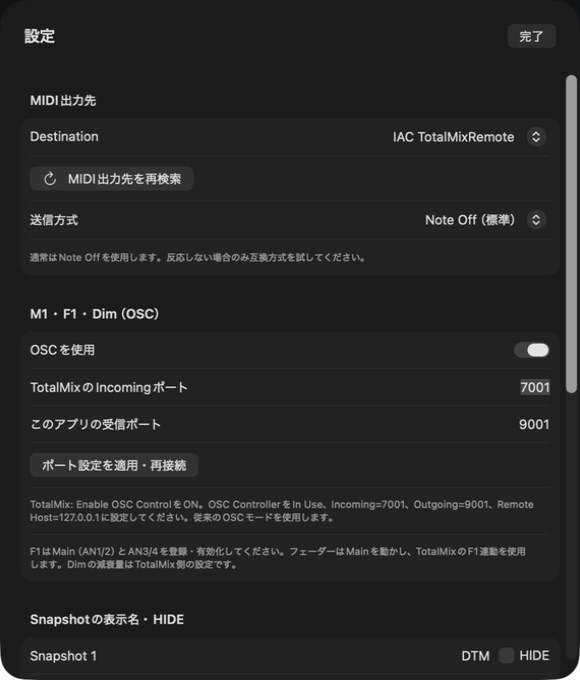
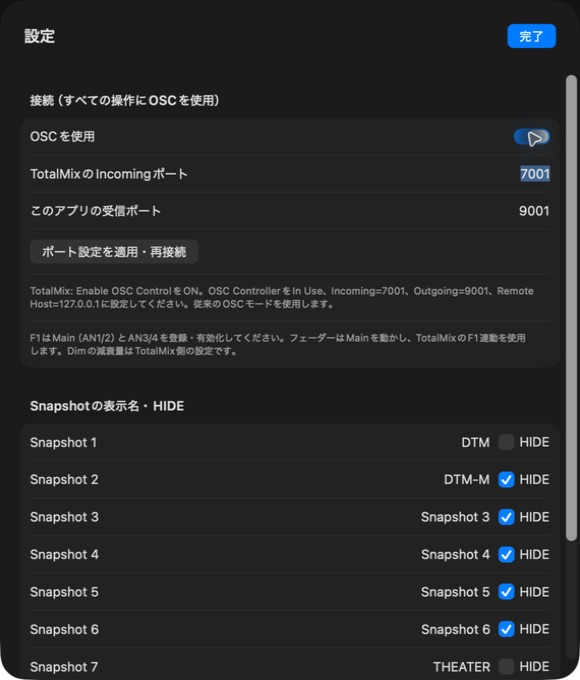
Unify TotalMix controls on OSC and remove MIDI transport

diff --git a/Tests/TotalMixSnapshotTouchTests/SnapshotTests.swift b/Tests/TotalMixSnapshotTouchTests/SnapshotTests.swift
@@ -1,92 +1,39 @@
 import XCTest
-import CoreMIDI
 @testable import TotalMixSnapshotTouch
 
 final class SnapshotTests: XCTestCase {
-    func testAllSnapshotBytesAndInvalidNumbers() throws {
-        for number in 1...8 {
-            XCTAssertEqual(try SnapshotCommand.bytes(for: number), [0x80, UInt8(53 + number), 0])
-            XCTAssertEqual(try SnapshotCommand.bytes(for: number, encoding: .noteOnZero), [0x90, UInt8(53 + number), 0])
-        }
-        XCTAssertThrowsError(try SnapshotCommand.bytes(for: 0))
-        XCTAssertThrowsError(try SnapshotCommand.bytes(for: 9))
-    }
-    func testDestinationSelectionPriorityAndMissingPort() {
-        let named = MIDIDestinationInfo(endpoint: 1, uniqueID: 10, displayName: "IAC TotalMixRemote")
-        let chosen = MIDIDestinationInfo(endpoint: 2, uniqueID: 20, displayName: "Other")
-        XCTAssertEqual(DestinationSelection.preferred(in: [named, chosen], savedID: 20), chosen)
-        XCTAssertEqual(DestinationSelection.preferred(in: [named, chosen], savedID: 99), named)
-        XCTAssertEqual(DestinationSelection.preferred(in: [named], savedID: nil), named)
-        XCTAssertNil(DestinationSelection.preferred(in: [chosen], savedID: nil))
-        XCTAssertNil(DestinationSelection.preferred(in: [], savedID: 20))
+    func testSnapshotAddresses() {
+        XCTAssertEqual((1...8).compactMap { SnapshotCommand.address(for: $0) }, [
+            "/3/snapshots/8/1", "/3/snapshots/7/1", "/3/snapshots/6/1", "/3/snapshots/5/1",
+            "/3/snapshots/4/1", "/3/snapshots/3/1", "/3/snapshots/2/1", "/3/snapshots/1/1"
+        ])
+        XCTAssertNil(SnapshotCommand.address(for: 0))
+        XCTAssertNil(SnapshotCommand.address(for: 9))
     }
     @MainActor
-    func testSettingsSurviveReloadAndReset() async throws {
+    func testExistingSettingsSurviveOSCOnlyMigration() async throws {
         let suite = "TotalMixTests.\(UUID().uuidString)"
         let defaults = try XCTUnwrap(UserDefaults(suiteName: suite))
         defer { defaults.removePersistentDomain(forName: suite) }
+        // Legacy keys must not interfere with names, visibility, or the OSC connection.
+        defaults.set(-123, forKey: "destinationUniqueID")
+        defaults.set("noteOnZero", forKey: "midiEncoding")
+        defaults.set([2, 3, 4, 5, 6, 8], forKey: "hiddenSnapshots")
+        defaults.set(7101, forKey: "oscSendPort")
+        defaults.set(9101, forKey: "oscReceivePort")
         let first = AppSettings(defaults: defaults)
         for number in 1...8 { first.setName("名前 \(number)", for: number) }
-        first.destinationID = -123
-        first.encoding = .noteOnZero
         let next = AppSettings(defaults: defaults)
         for number in 1...8 { XCTAssertEqual(next.name(for: number), "名前 \(number)") }
-        XCTAssertEqual(next.destinationID, -123)
-        XCTAssertEqual(next.encoding, .noteOnZero)
+        XCTAssertEqual(next.visibleSnapshotNumbers, [1, 7])
+        XCTAssertEqual(next.oscSendPort, 7101)
+        XCTAssertEqual(next.oscReceivePort, 9101)
+        next.setHidden(false, for: 2)
+        XCTAssertEqual(AppSettings(defaults: defaults).visibleSnapshotNumbers, [1, 2, 7])
         next.setName("  ", for: 1)
         XCTAssertEqual(next.name(for: 1), "Snapshot 1")
         next.resetNames()
         XCTAssertEqual(AppSettings(defaults: defaults).snapshotNames, (1...8).map { "Snapshot \($0)" })
+        XCTAssertEqual(AppSettings(defaults: defaults).visibleSnapshotNumbers, [1, 2, 7])
     }
-    @MainActor
-    func testCoreMIDISendsToIsolatedEndpointAndHandlesRemoval() async throws {
-        let suite = "TotalMixTests.\(UUID().uuidString)"
-        let defaults = try XCTUnwrap(UserDefaults(suiteName: suite))
-        defer { defaults.removePersistentDomain(forName: suite) }
-        var client: MIDIClientRef = 0
-        var endpoint: MIDIEndpointRef = 0
-        XCTAssertEqual(MIDIClientCreateWithBlock("Snapshot Tests" as CFString, &client, nil), noErr)
-        defer { MIDIClientDispose(client) }
-        let received = expectation(description: "Eight Note Off messages and compatibility message")
-        received.expectedFulfillmentCount = 9
-        let collector = PacketCollector()
-        XCTAssertEqual(MIDIDestinationCreateWithBlock(client, "Isolated Snapshot Test" as CFString, &endpoint) { list, _ in
-            var pointer = UnsafeRawPointer(list).advanced(by: MemoryLayout<MIDIPacketList>.offset(of: \.packet)!).assumingMemoryBound(to: MIDIPacket.self)
-            for index in 0..<list.pointee.numPackets {
-                let packet = pointer.pointee
-                let bytes = withUnsafeBytes(of: packet.data) { Array($0.prefix(Int(packet.length))) }
-                // CoreMIDI may coalesce several three-byte messages into one packet.
-                for start in stride(from: 0, to: bytes.count, by: 3) {
-                    collector.append(Array(bytes[start..<min(start + 3, bytes.count)]))
-                    received.fulfill()
-                }
-                if index + 1 < list.pointee.numPackets { pointer = UnsafePointer(MIDIPacketNext(pointer)) }
-            }
-        }, noErr)
-        var uniqueID: Int32 = 0
-        XCTAssertEqual(MIDIObjectGetIntegerProperty(endpoint, kMIDIPropertyUniqueID, &uniqueID), noErr)
-        let settings = AppSettings(defaults: defaults)
-        settings.destinationID = uniqueID
-        let manager = MIDIManager(settings: settings)
-        XCTAssertEqual(manager.selectedDestination?.endpoint, endpoint)
-        for number in 1...8 { try manager.sendSnapshot(number) }
-        settings.encoding = .noteOnZero
-        try manager.sendSnapshot(1)
-        await fulfillment(of: [received], timeout: 3)
-        XCTAssertEqual(collector.all(), (1...8).map { [UInt8(0x80), UInt8(53 + $0), UInt8(0)] } + [[0x90, 54, 0]])
-        XCTAssertEqual(manager.lastSentSnapshot, 1)
-        XCTAssertEqual(MIDIEndpointDispose(endpoint), noErr)
-        // No refresh in between: exercise stale handle validation, never send to a real IAC endpoint.
-        XCTAssertFalse(manager.recall(2))
-        XCTAssertFalse(manager.isConnected)
-        XCTAssertNil(manager.lastSentSnapshot)
-        XCTAssertNotNil(manager.errorMessage)
-    }
-}
-
-private final class PacketCollector: @unchecked Sendable {
-    private let lock = NSLock()
-    private var packets: [[UInt8]] = []
-    func append(_ bytes: [UInt8]) { lock.lock(); defer { lock.unlock() }; packets.append(bytes) }
-    func all() -> [[UInt8]] { lock.lock(); defer { lock.unlock() }; return packets }
 }

diff --git a/Sources/TotalMixSnapshotTouch/Views/MainView.swift b/Sources/TotalMixSnapshotTouch/Views/MainView.swift
@@ -2,7 +2,6 @@ import SwiftUI
 
 struct MainView: View {
     @EnvironmentObject private var settings: AppSettings
-    @EnvironmentObject private var midi: MIDIManager
     @EnvironmentObject private var osc: OSCManager
     @State private var showsSettings = false
     var body: some View {
@@ -38,9 +37,9 @@ struct MainView: View {
                         ScrollView {
                             LazyVGrid(columns: Array(repeating: GridItem(.flexible(), spacing: 14), count: columns), spacing: 14) {
                                 ForEach(visibleNumbers, id: \.self) { number in
-                                    SnapshotButton(number: number, name: settings.name(for: number), lastSent: midi.lastSentSnapshot == number, enabled: midi.isConnected) {
+                                    SnapshotButton(number: number, name: settings.name(for: number), lastSent: osc.lastSentSnapshot == number, enabled: osc.connected) {
                                         // Also guard actions retained during a view update.
-                                        if !settings.hiddenSnapshots.contains(number) { midi.recall(number) }
+                                        if !settings.hiddenSnapshots.contains(number) { osc.recallSnapshot(number) }
                                     }
                                     .frame(height: cellHeight)
                                     .keyboardShortcut(KeyEquivalent(Character(String(number))), modifiers: [])
@@ -53,15 +52,15 @@ struct MainView: View {
                 }
                 MonitorControlsView().disabled(showsSettings)
                 HStack(alignment: .top, spacing: 10) {
-                    Circle().fill(midi.isConnected ? Color.mint : Color.orange).frame(width: 8, height: 8).padding(.top, 4)
+                    Circle().fill(osc.connected ? Color.mint : Color.orange).frame(width: 8, height: 8).padding(.top, 4)
                     VStack(alignment: .leading, spacing: 3) {
-                        Text(midi.errorMessage ?? "MIDI: \(midi.selectedDestination?.displayName ?? "未接続")")
-                            .foregroundStyle(midi.errorMessage == nil ? Color.secondary : Color.orange)
+                        Text(osc.errorMessage ?? (osc.connected ? "OSC: 127.0.0.1 · 接続済み" : "OSC未接続 — 設定を確認してください"))
+                            .foregroundStyle(osc.connected && osc.errorMessage == nil ? Color.secondary : Color.orange)
                         Text("強調表示は最後に送信したSnapshotです。TotalMixの現在状態とは同期しません。")
                             .foregroundStyle(.secondary)
                     }.font(.system(size: 11))
                     Spacer(minLength: 0)
-                    if let date = midi.lastSentDate {
+                    if let date = osc.lastSentDate {
                         Text(date, style: .time).font(.system(size: 11, design: .monospaced)).foregroundStyle(.secondary)
                     }
                 }
@@ -72,7 +71,7 @@ struct MainView: View {
         .background(Color(red: 0.045, green: 0.065, blue: 0.085))
         .preferredColorScheme(.dark)
         .sheet(isPresented: $showsSettings) {
-            SettingsView().environmentObject(settings).environmentObject(midi).environmentObject(osc)
+            SettingsView().environmentObject(settings).environmentObject(osc)
         }
     }
 }

diff --git a/Sources/TotalMixSnapshotTouch/Views/SettingsView.swift b/Sources/TotalMixSnapshotTouch/Views/SettingsView.swift
@@ -2,7 +2,6 @@ import SwiftUI
 
 struct SettingsView: View {
     @EnvironmentObject private var settings: AppSettings
-    @EnvironmentObject private var midi: MIDIManager
     @EnvironmentObject private var osc: OSCManager
     @Environment(\.dismiss) private var dismiss
     var body: some View {
@@ -13,26 +12,7 @@ struct SettingsView: View {
                 Button("完了") { dismiss() }.keyboardShortcut(.defaultAction)
             }.padding(24)
             Form {
-                Section("MIDI出力先") {
-                    Picker("Destination", selection: Binding<UInt32>(
-                        get: { midi.selectedDestination?.endpoint ?? 0 },
-                        set: { endpoint in
-                            if let destination = midi.destinations.first(where: { $0.endpoint == endpoint }) { midi.selectDestination(destination) }
-                        }
-                    )) {
-                        Text("未接続 / 出力先を選択").tag(UInt32(0))
-                        ForEach(midi.destinations) { destination in
-                            Text(destination.displayName).tag(destination.endpoint)
-                        }
-                    }
-                    Button("MIDI出力先を再検索", systemImage: "arrow.clockwise") { midi.refreshDestinations() }
-                    Picker("送信方式", selection: $settings.encoding) {
-                        ForEach(SnapshotCommand.Encoding.allCases) { encoding in Text(encoding.title).tag(encoding) }
-                    }
-                    Text("通常はNote Offを使用します。反応しない場合のみ互換方式を試してください。")
-                        .font(.caption).foregroundStyle(.secondary)
-                }
-                Section("M1・F1・Dim（OSC）") {
+                Section("接続（すべての操作にOSCを使用）") {
                     Toggle("OSCを使用", isOn: $settings.oscEnabled)
                         .onChange(of: settings.oscEnabled) { _ in osc.reconnect() }
                     TextField("TotalMixのIncomingポート", value: $settings.oscSendPort, format: .number.grouping(.never))
@@ -63,10 +43,7 @@ struct SettingsView: View {
                     Text("HIDEをオンにするとボタンと数字キー操作を無効にします。変更は自動保存され、オフにすると再表示できます。TotalMix側のSnapshotは変更しません。")
                         .font(.caption).foregroundStyle(.secondary)
                 }
-                Section("TotalMix側の設定") {
-                    Text("Enable MIDI Control: ON\nIn Use: ON / Input: IAC TotalMixRemote\nEnable Protocol Support: ON\nDisable MIDI in background: OFF\nOutput Port: None")
-                        .font(.caption).textSelection(.enabled)
-                }
+
             }.formStyle(.grouped)
         }
         .frame(width: 580, height: 680)

diff --git a/Tests/TotalMixSnapshotTouchTests/OSCTests.swift b/Tests/TotalMixSnapshotTouchTests/OSCTests.swift
@@ -57,6 +57,8 @@ final class OSCTests: XCTestCase {
             }
             return result
         }
+        XCTAssertFalse(manager.recallSnapshot(1))
+        XCTAssertNil(manager.lastSentSnapshot)
         manager.setMainVolume(1, force: true)
         manager.toggleDim(); manager.toggleMuteGroup1()
         XCTAssertEqual(outgoing().map(\.address), ["/3"])
@@ -78,12 +80,34 @@ final class OSCTests: XCTestCase {
         XCTAssertTrue(manager.connected)
         XCTAssertEqual(manager.dim, false); XCTAssertEqual(manager.muteGroup1, true)
         XCTAssertEqual(manager.mainVolume ?? 0, 0.4, accuracy: 0.0001)
+        // Check every actual UDP packet, including value 1.0 and reverse row mapping.
+        for number in 1...8 { XCTAssertTrue(manager.recallSnapshot(number)) }
+        let snapshots = outgoing()
+        XCTAssertEqual(snapshots.map(\.address), [
+            "/3/snapshots/8/1", "/3/snapshots/7/1", "/3/snapshots/6/1", "/3/snapshots/5/1",
+            "/3/snapshots/4/1", "/3/snapshots/3/1", "/3/snapshots/2/1", "/3/snapshots/1/1"
+        ])
+        XCTAssertTrue(snapshots.allSatisfy { $0.value == .float(1) })
+        XCTAssertEqual(manager.lastSentSnapshot, 8)
+        XCTAssertNotNil(manager.lastSentDate)
+        settings.setHidden(true, for: 2)
+        XCTAssertFalse(manager.recallSnapshot(2))
+        XCTAssertFalse(manager.recallSnapshot(0))
+        XCTAssertFalse(manager.recallSnapshot(9))
+        XCTAssertTrue(outgoing().isEmpty)
+        XCTAssertEqual(manager.lastSentSnapshot, 8)
+        // Snapshot feedback alone must not overwrite the meaning of last-sent state.
+        feedback("/3/snapshots/8/1", 1)
+        try await Task.sleep(nanoseconds: 50_000_000)
+        XCTAssertEqual(manager.lastSentSnapshot, 8)
         manager.toggleDim(); manager.toggleDim() // No double toggle before feedback.
         manager.toggleMuteGroup1(); manager.setMainVolume(0.3, force: true)
         XCTAssertEqual(outgoing().map(\.address), ["/1/mainDim", "/3/muteGroups/4/1", "/1/mastervolume"])
         XCTAssertEqual(manager.dim, false) // Never invent an acknowledged ON state.
         manager.reconnect()
         XCTAssertNil(manager.errorMessage)
+        XCTAssertNil(manager.lastSentSnapshot)
+        XCTAssertNil(manager.lastSentDate)
         XCTAssertFalse(manager.connected)
         feedback("/1/mastervolume", 0.3)
         try await Task.sleep(nanoseconds: 100_000_000)
@@ -91,6 +115,8 @@ final class OSCTests: XCTestCase {
         try await Task.sleep(nanoseconds: 4_800_000_000)
         XCTAssertFalse(manager.connected)
         XCTAssertFalse(manager.canAdjustVolume)
+        XCTAssertFalse(manager.recallSnapshot(1))
         settings.oscEnabled = false; manager.reconnect()
+        XCTAssertFalse(manager.recallSnapshot(1))
     }
 }

diff --git a/Sources/TotalMixSnapshotTouch/Models/Snapshot.swift b/Sources/TotalMixSnapshotTouch/Models/Snapshot.swift
@@ -2,38 +2,9 @@ import Foundation
 
 enum SnapshotCommand {
     static let numbers = Array(1...8)
-    enum Encoding: String, CaseIterable, Identifiable {
-        case noteOff, noteOnZero
-        var id: String { rawValue }
-        var title: String { self == .noteOff ? "Note Off（標準）" : "Note On / Velocity 0（互換）" }
-    }
-    static func bytes(for number: Int, encoding: Encoding = .noteOff) throws -> [UInt8] {
-        guard numbers.contains(number) else { throw MIDIError.invalidSnapshot }
-        return [encoding == .noteOff ? 0x80 : 0x90, UInt8(53 + number), 0]
-    }
-}
-
-struct MIDIDestinationInfo: Identifiable, Equatable {
-    let endpoint: UInt32
-    let uniqueID: Int32
-    let displayName: String
-    var id: UInt32 { endpoint }
-}
-
-enum DestinationSelection {
-    static func preferred(in destinations: [MIDIDestinationInfo], savedID: Int32?) -> MIDIDestinationInfo? {
-        if let savedID, let saved = destinations.first(where: { $0.uniqueID == savedID }) { return saved }
-        return destinations.first { $0.displayName.lowercased().contains("totalmixremote") }
-    }
-}
-
-enum MIDIError: LocalizedError {
-    case invalidSnapshot, disconnected, system(String, Int32)
-    var errorDescription: String? {
-        switch self {
-        case .invalidSnapshot: return "Snapshot番号は1〜8を指定してください。"
-        case .disconnected: return "MIDI出力先が見つかりません。設定から出力先を選択してください。"
-        case let .system(operation, code): return "\(operation)に失敗しました（\(code)）。設定から再検索してください。"
-        }
+    static func address(for number: Int) -> String? {
+        guard numbers.contains(number) else { return nil }
+        // TotalMix's OSC snapshot rows are numbered in reverse order.
+        return "/3/snapshots/\(9 - number)/1"
     }
 }

diff --git a/Sources/TotalMixSnapshotTouch/OSC/OSCManager.swift b/Sources/TotalMixSnapshotTouch/OSC/OSCManager.swift
@@ -5,6 +5,8 @@ import Darwin
 /// One local TotalMix OSC controller, with state feedback. No Internet/LAN endpoint is used.
 @MainActor
 final class OSCManager: ObservableObject {
+    @Published private(set) var lastSentSnapshot: Int?
+    @Published private(set) var lastSentDate: Date?
     @Published private(set) var muteGroup1: Bool?
     @Published private(set) var dim: Bool?
     @Published private(set) var mainVolume: Double?
@@ -70,6 +72,7 @@ final class OSCManager: ObservableObject {
         }
     }
     private func resetFeedback() {
+        lastSentSnapshot = nil; lastSentDate = nil
         connected = false; muteGroup1 = nil; dim = nil; mainVolume = nil
         volumeLabel = "— dB"; pendingMute = false; pendingDim = false
         lastFeedback = .distantPast; lastVolumeFeedback = .distantPast
@@ -87,6 +90,15 @@ final class OSCManager: ObservableObject {
     private func requestPage() {
         page = page == 1 ? 3 : 1
         send("/\(page)", value: 0)
+    }
+    @discardableResult
+    func recallSnapshot(_ number: Int) -> Bool {
+        guard connected, !settings.hiddenSnapshots.contains(number),
+              let address = SnapshotCommand.address(for: number) else { return false }
+        guard send(address, value: 1) else { return false }
+        lastSentSnapshot = number
+        lastSentDate = Date()
+        return true
     }
     func toggleMuteGroup1() {
         guard connected, muteGroup1 != nil, !pendingMute else { return }

diff --git a/Sources/TotalMixSnapshotTouch/Persistence/AppSettings.swift b/Sources/TotalMixSnapshotTouch/Persistence/AppSettings.swift
@@ -18,15 +18,6 @@ final class AppSettings: ObservableObject {
         else { hiddenSnapshots.remove(number) }
         defaults.set(hiddenSnapshots.sorted(), forKey: "hiddenSnapshots")
     }
-    @Published var destinationID: Int32? {
-        didSet {
-            if let destinationID { defaults.set(Int(destinationID), forKey: "destinationUniqueID") }
-            else { defaults.removeObject(forKey: "destinationUniqueID") }
-        }
-    }
-    @Published var encoding: SnapshotCommand.Encoding {
-        didSet { defaults.set(encoding.rawValue, forKey: "midiEncoding") }
-    }
     init(defaults: UserDefaults = .standard) {
         self.defaults = defaults
         oscEnabled = defaults.object(forKey: "oscEnabled") as? Bool ?? true
@@ -38,8 +29,6 @@ final class AppSettings: ObservableObject {
             .filter { SnapshotCommand.numbers.contains($0) })
         let stored = defaults.stringArray(forKey: "snapshotNames") ?? []
         snapshotNames = SnapshotCommand.numbers.map { stored.indices.contains($0 - 1) ? stored[$0 - 1] : "Snapshot \($0)" }
-        destinationID = (defaults.object(forKey: "destinationUniqueID") as? NSNumber)?.int32Value
-        encoding = SnapshotCommand.Encoding(rawValue: defaults.string(forKey: "midiEncoding") ?? "") ?? .noteOff
     }
     func name(for number: Int) -> String {
         guard snapshotNames.indices.contains(number - 1) else { return "" }

diff --git a/Sources/TotalMixSnapshotTouch/TotalMixSnapshotTouchApp.swift b/Sources/TotalMixSnapshotTouch/TotalMixSnapshotTouchApp.swift
@@ -3,17 +3,15 @@ import SwiftUI
 @main
 struct TotalMixSnapshotTouchApp: App {
     @StateObject private var settings: AppSettings
-    @StateObject private var midi: MIDIManager
     @StateObject private var osc: OSCManager
     init() {
         let settings = AppSettings()
         _settings = StateObject(wrappedValue: settings)
-        _midi = StateObject(wrappedValue: MIDIManager(settings: settings))
         _osc = StateObject(wrappedValue: OSCManager(settings: settings))
     }
     var body: some Scene {
         Window("TotalMix Snapshot Touch", id: "main") {
-            MainView().environmentObject(settings).environmentObject(midi).environmentObject(osc)
+            MainView().environmentObject(settings).environmentObject(osc)
         }
         .defaultSize(width: 900, height: 600)
         .windowResizability(.contentMinSize)
